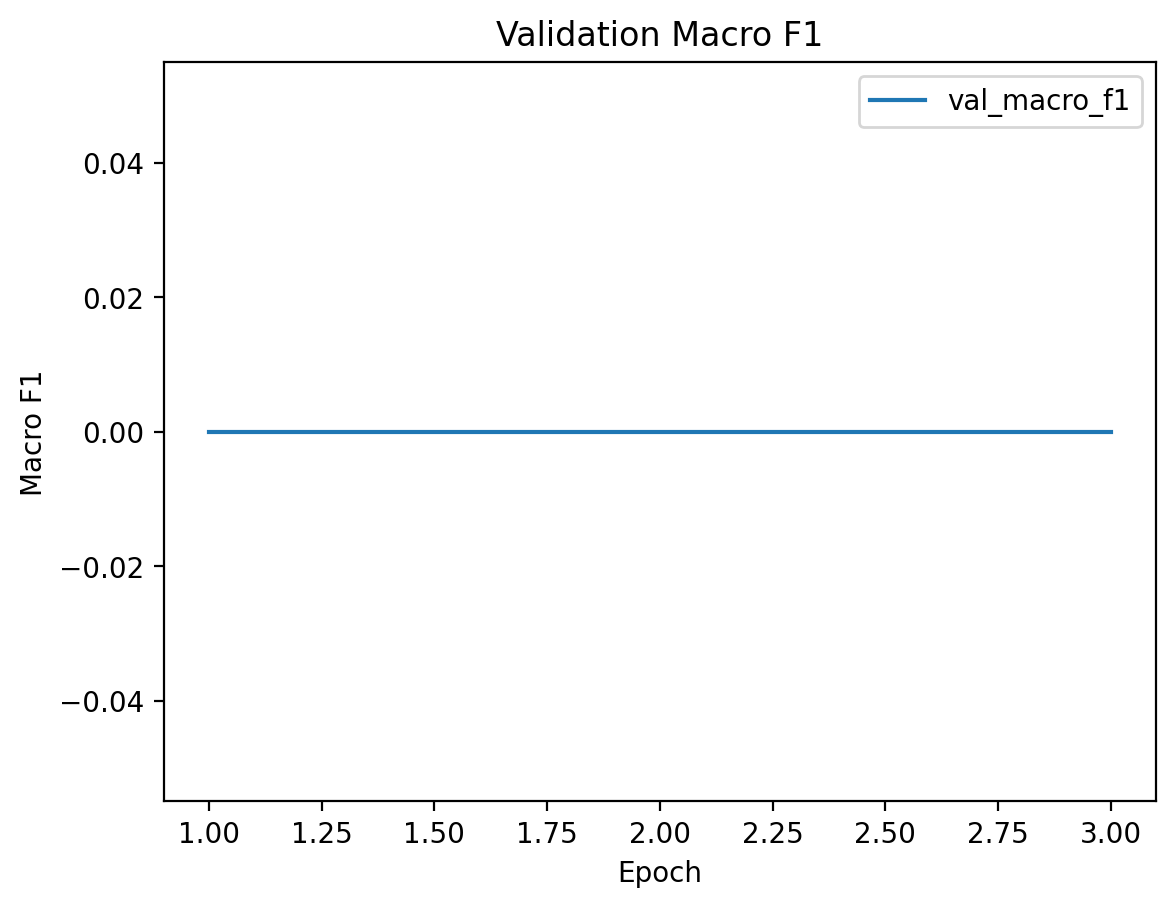
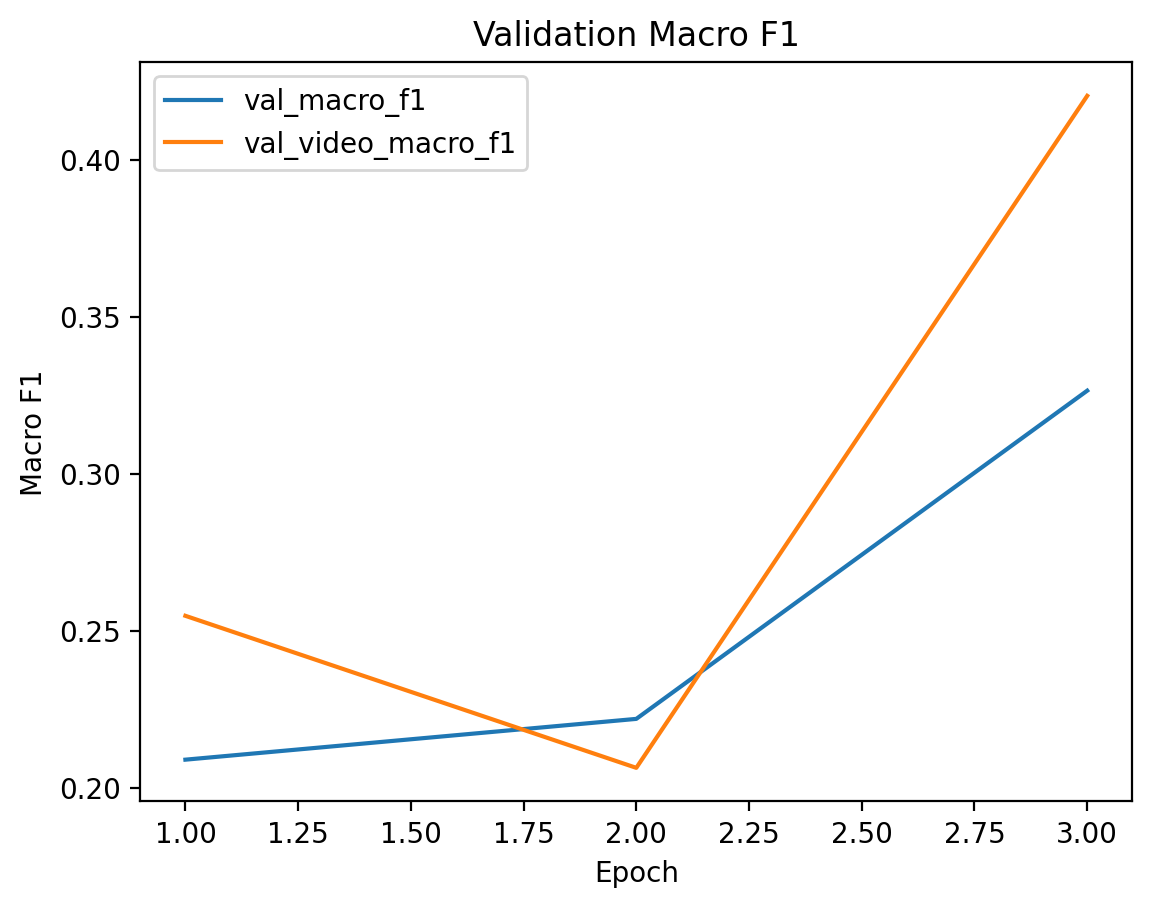
changes in dataset.py + main.py

diff --git a/src/main.py b/src/main.py
@@ -1,6 +1,7 @@
 from __future__ import annotations
 
 import argparse
+import torch
 
 from src.train.train import TrainConfig, train
 from src.evaluation.evaluate import evaluate
@@ -8,29 +9,22 @@ from src.evaluation.evaluate import evaluate
 
 def parse_args() -> argparse.Namespace:
     p = argparse.ArgumentParser(description="Crime Detection Pipeline")
-
     subparsers = p.add_subparsers(dest="command", required=True)
 
-    # train
     train_p = subparsers.add_parser("train", help="Train a model")
     train_p.add_argument("--mode", type=str, default="debug", choices=["debug", "final"])
 
-    # evaluate
     eval_p = subparsers.add_parser("evaluate", help="Evaluate a trained model")
     eval_p.add_argument("--ckpt", type=str, required=True)
-    eval_p.add_argument("--model", type=str, default="resnet50",
-                        choices=["resnet50", "mobilenetv2", "vgg16"])
+    eval_p.add_argument("--model", type=str, default="resnet50", choices=["resnet50", "mobilenetv2", "vgg16"])
     eval_p.add_argument("--device", type=str, default="cpu")
-
     eval_p.add_argument("--root_dir", type=str, default="dataset")
     eval_p.add_argument("--out_dir", type=str, default="results")
     eval_p.add_argument("--batch_size", type=int, default=32)
     eval_p.add_argument("--num_workers", type=int, default=0)
     eval_p.add_argument("--img_size", type=int, default=224)
     eval_p.add_argument("--dropout", type=float, default=0.4)
-
     eval_p.add_argument("--max_per_class_test", type=int, default=None)
-
     eval_p.add_argument("--agg_method", type=str, default="mean_probs")
     eval_p.add_argument("--smoothing", type=str, default="none")
     eval_p.add_argument("--smoothing_alpha", type=float, default=0.7)
@@ -41,11 +35,14 @@ def parse_args() -> argparse.Namespace:
 def main():
     args = parse_args()
 
-    # train
     if args.command == "train":
         cfg = TrainConfig()
         cfg.data.num_workers = 0
-        cfg.device = "cuda"
+        cfg.device = "cuda" if torch.cuda.is_available() else "cpu"
+
+        cfg.data.return_meta = True
+        cfg.data.val_split = 0.1
+        cfg.data.video_wise_split = True
 
         if args.mode == "debug":
             cfg.data.max_per_class_train = 100
@@ -67,7 +64,6 @@ def main():
         out = train(cfg)
         print("\nTraining done:", out)
 
-    # evaluate
     elif args.command == "evaluate":
         outputs = evaluate(
             ckpt_path=args.ckpt,

diff --git a/src/data/dataset.py b/src/data/dataset.py
@@ -148,7 +148,8 @@ class CrimeFramesDataset(Dataset):
 
             label = self.class_to_idx[class_name]
             for p in files:
-                video_id, frame_id = _parse_video_and_frame(p.name)
+                video_id_raw, frame_id = _parse_video_and_frame(p.name)
+                video_id = f"{class_name}:{video_id_raw}"
                 self.samples.append((p, label, video_id, frame_id))
 
         if len(self.samples) == 0:
